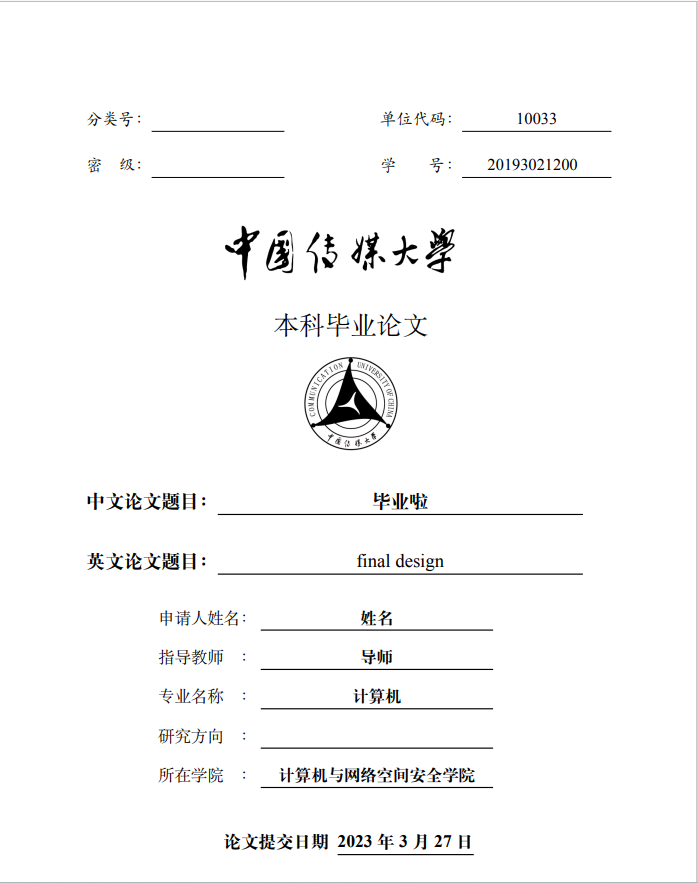
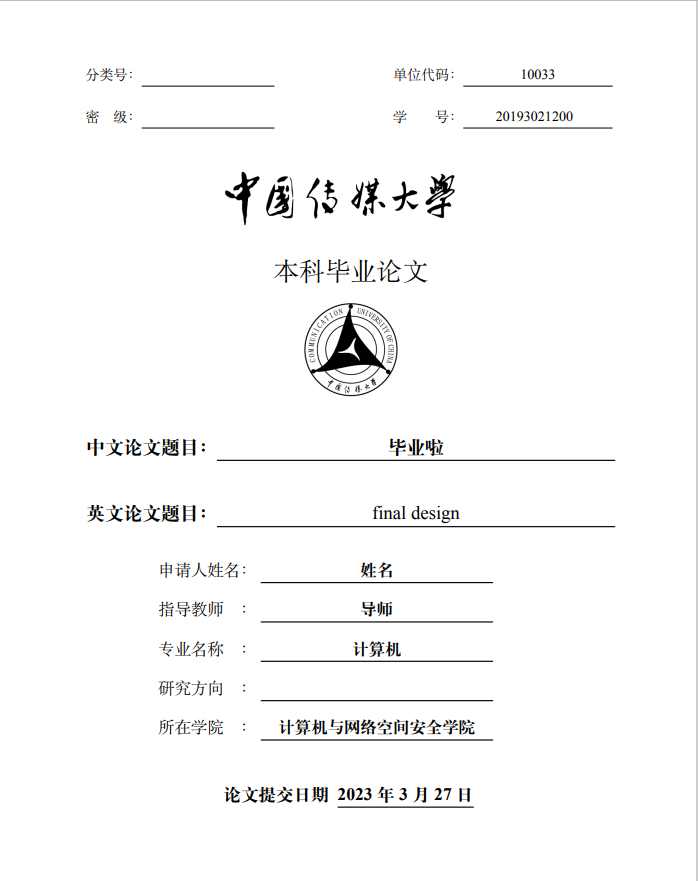
修改部分表述，更换coverpage

diff --git a/readme.md b/readme.md
@@ -29,7 +29,7 @@
 <img width = '450' height ='600' src ="imgs/coverpage.png"/>
 </div>
 
-详情请看本目录下**latex_template.pdf**文件
+详情请看本目录下**thesis_latex_template.pdf**文件
 
 ## 实现细节
 
